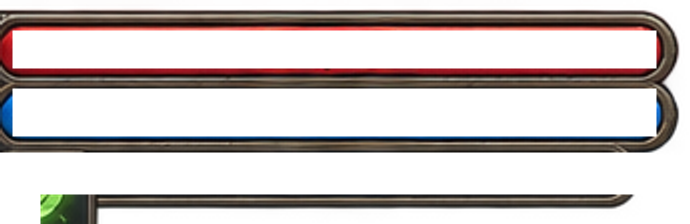
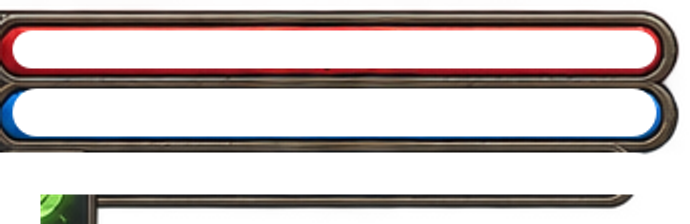
Fix visible gaps in the HUD art: rounded-rect math and hollow rings
Three precision bugs left empty/mismatched pixels between the art
and the live content it frames:

- HP/resource/XP bars: the transparent holes punched in the frame
  were plain rectangles, but the fill divs use border-radius:999px
  (a full pill). At the rounded caps the rectangular hole exposed
  transparent corner triangles the pill-shaped fill never reached.
  Rebuilt the holes as true stadium/pill shapes matching the fill.

- Ability rings/action button: left the center fully transparent,
  so the raw 3D world showed through behind every icon. Composited
  the ring border over a solid dark disc instead, matching how the
  reference art actually looks (filled circles, not empty rings).

- Minimap: miscalculated the hollow rect's true bounds from its
  SVG rounded-rect path (used the path's corner-arc start coordinate
  as the bounding-box corner, which is offset by the radius) — the
  canvas ended up smaller than the hole, leaving a border gap. Fixed
  the math and resized/repositioned the canvas to match exactly.

Claude-Session: https://claude.ai/code/session_01PJ29vBwP1dGG8R2wiEbnTZ

diff --git a/src/style.css b/src/style.css
@@ -280,9 +280,9 @@ canvas {
 #minimap-canvas {
   display: block;
   position: absolute;
-  left: 15px;
+  left: 8px;
   top: 22px;
-  width: 114px;
+  width: 128px;
   height: 96px;
   border-radius: 7px;
   background: #0a0a0a;
